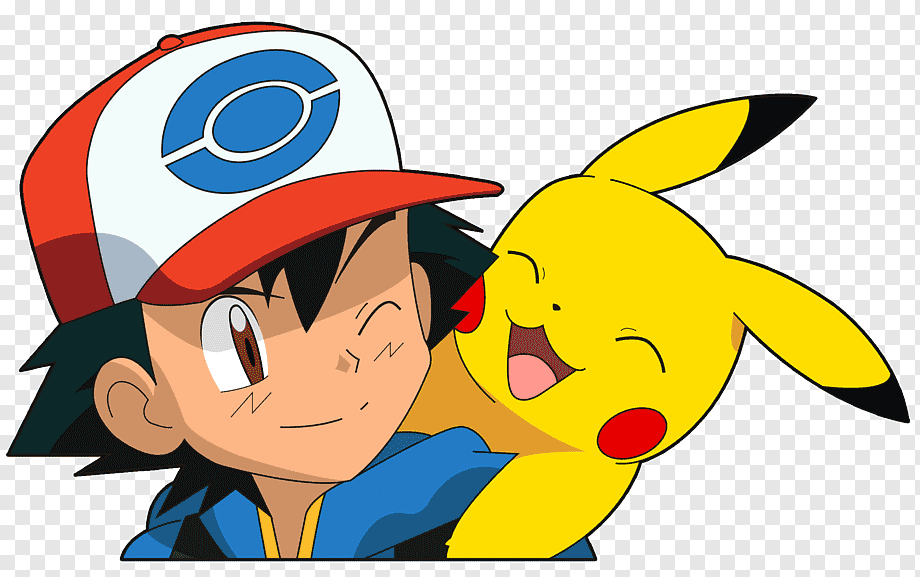
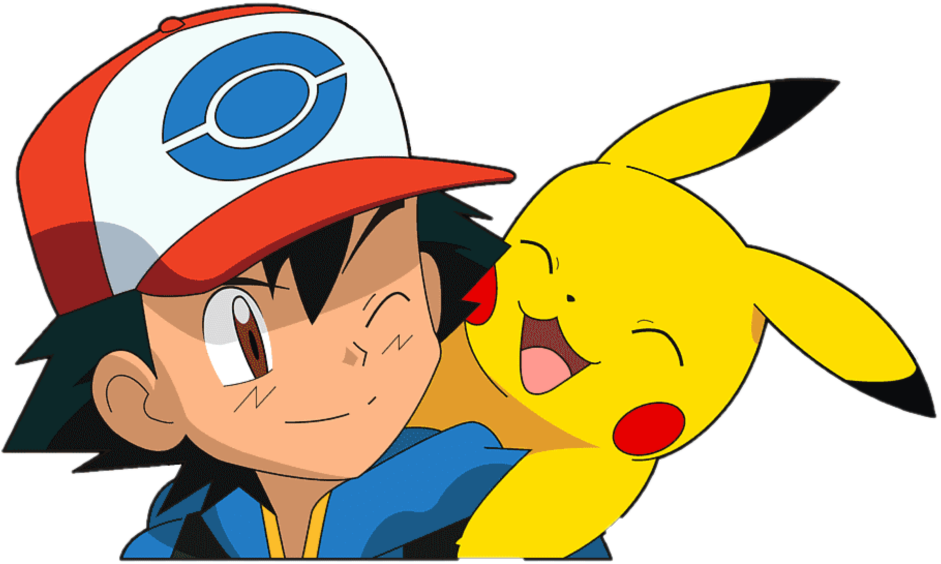
Creando vista Home

diff --git a/src/index.css b/src/index.css
@@ -10,6 +10,14 @@ body {
   height: 100vh;
   background-image: url(../public/images/fondo3.jpg);
   background-size: cover;
+  min-width: 375px;
+}
+.container__home {
+  height: 80vh;
+  display: flex;
+  flex-direction: column;
+  align-items: center;
+  justify-content: space-evenly;
 }
 .container__title {
   text-align: center;
@@ -24,6 +32,15 @@ body {
   padding: 20px 50px;
   background-color: #3dc03d;
   box-shadow: 5px 5px 7px black;
+}
+.container__fondo {
+  display: flex;
+  align-items: center;
+  justify-content: center;
+}
+.container__fondo__img {
+  width: 100%;
+  max-width: 800px;
 }
 .navbar__img {
   width: 120px;
@@ -44,4 +61,9 @@ body {
 
 .active {
   color: red;
+}
+@media (min-width: 576px) {
+  .container__title {
+    font-size: 3rem;
+  }
 }

diff --git a/src/App.jsx b/src/App.jsx
@@ -1,11 +1,15 @@
+import { Route, Routes } from "react-router-dom";
 import "./App.css";
 import Navbar from "./components/Navbar";
+import Home from "./views/Home";
 
 function App() {
   return (
     <div className="container">
       <Navbar></Navbar>
-      <h1 className="container__title">Bienvenido maestro Pokemon!</h1>
+      <Routes>
+        <Route path="/" element={<Home />} />
+      </Routes>
     </div>
   );
 }

diff --git a/src/views/Home.jsx b/src/views/Home.jsx
@@ -1,0 +1,15 @@
+const Home = () => {
+  return (
+    <div className="container__home">
+      <h1 className="container__title">Bienvenido maestro Pokemon!</h1>
+      <div className="container__fondo">
+        <img
+          className="container__fondo__img"
+          src="/images/fondo-pikachu.png"
+          alt=""
+        />
+      </div>
+    </div>
+  );
+};
+export default Home;
